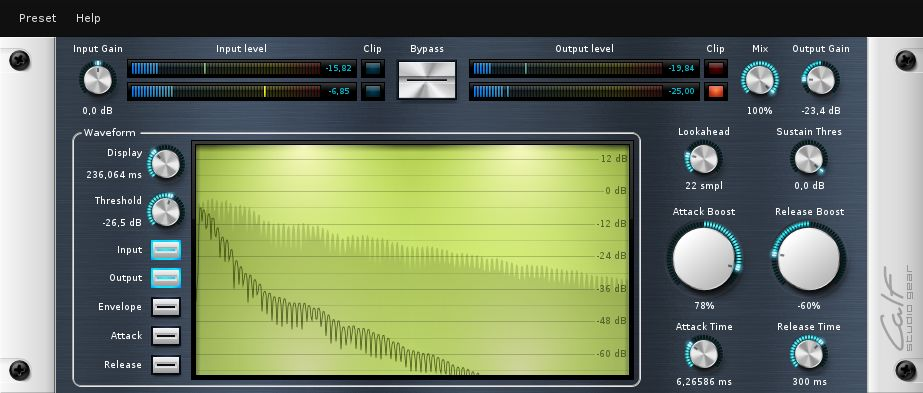
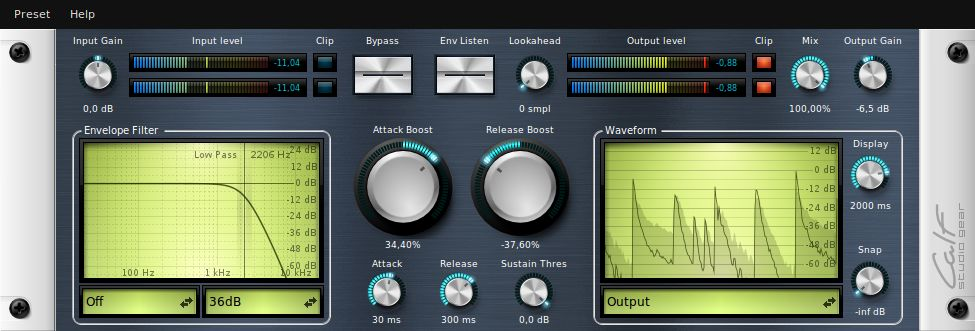
Transient Designer: image and text for manual, small change to the UI

diff --git a/doc/manuals/Transient Designer.html b/doc/manuals/Transient Designer.html
@@ -22,17 +22,20 @@
                 <li><strong>Input L/R (VU-meter):</strong> The level of the original signal</li>
                 <li><strong>0dB (LED):</strong> Flashes if the level of the original signal raises above 0dB (it doesn't clip your signal)</li>
                 <li><strong>Bypass:</strong> Don't process anything, just bypass the signal</li>
-                <li><strong>Mix:</strong> Decide how much of the processed signal should be mixed into the original signal</li>
+                <li><strong>Lookahead:</strong> If you encounter problems like accentuated attacks while changing the release raise the lookahead time to get more accurate results.</li>
+                <li><strong>Env Listen:</strong> Listen to the envelope signal. This is useful when setting the envelope filters.</li>
                 <li><strong>Output L/R (VU-meter):</strong> The level of the processed signal</li>
                 <li><strong>0dB (LED):</strong> Flashes if the level of the output signal raises above 0dB (it may clip your signal depending on your host and your systems' bitrate!)</li>
+                <li><strong>Mix:</strong> Decide how much of the processed signal should be mixed into the original signal</li>
                 <li><strong>Output (knob):</strong> Raise the overall volume after the process</li>
-                <li><strong>Attack Time:</strong> This knob sets the duration of the attack phase. Technically it means that the attack curve reaches estimated 70.7% of the top of the actual signal (the envelope curve at that point to be more precisely) after the adjusted time.
+                <li><strong>Envelope Filter:</strong> Use the high pass and/or the low pass filter to prevent Transient Designer to react on unwanted frequency ranges, e.g. a cross-talking hi-hat on a snare drum track.</li>
                 <li><strong>Attack Boost:</strong> Set the gain reduction or amplification in the attack phase. The more the attack curve differs from the actual signal (the envelope curve to be more precisely) the more the boost factor will alter the signal</li>
-                <li><strong>Release Time:</strong> This knob sets the duration of the release phase (after the sustain phase). Technically it means that the release curve reaches estimated 29.3% of the difference between the actual signal (the envelope curve at that point to be more precisely) and the release curve after the adjusted time.
                 <li><strong>Release Boost:</strong> Set the gain reduction or amplification in the release and sustain phase. The more the release curve differs from the actual signal (the envelope curve to be more precisely) the more the boost factor will alter the signal</li>
-                <li><strong>Sustain Threshold:</strong> The release phase starts after the sustain phase has ended. The release phase starts after the original signal falls below the threshold level of the highest peak inside the transient</li>
+                <li><strong>Release:</strong> This knob sets the duration of the release phase (after the sustain phase). Technically it means that the release curve reaches estimated 29.3% of the difference between the actual signal (the envelope curve at that point to be more precisely) and the release curve after the adjusted time.
+                <li><strong>Attack:</strong> This knob sets the duration of the attack phase. Technically it means that the attack curve reaches estimated 70.7% of the top of the actual signal (the envelope curve at that point to be more precisely) after the adjusted time.
+                <li><strong>Sustain Thres:</strong> The release phase starts after the sustain phase has ended. The release phase starts after the original signal falls below the threshold level of the highest peak inside the transient</li>
                 <li><strong>Display:</strong> Sets the amount of time to be displayed in the graph</li>
-                <li><strong>Display Threshold:</strong> If this threshold is above -inf the curve is hold some milliseconds before a transient of the actual threshold value appears.
+                <li><strong>Snap:</strong> If this threshold is above -inf the curve is hold some milliseconds before a transient of the actual threshold value appears.
             </ul>
             <div class="footer"><a href="index.html" title="Index">Index</a><a href="#" title="Top">Top</a></a></div>
         </div>
